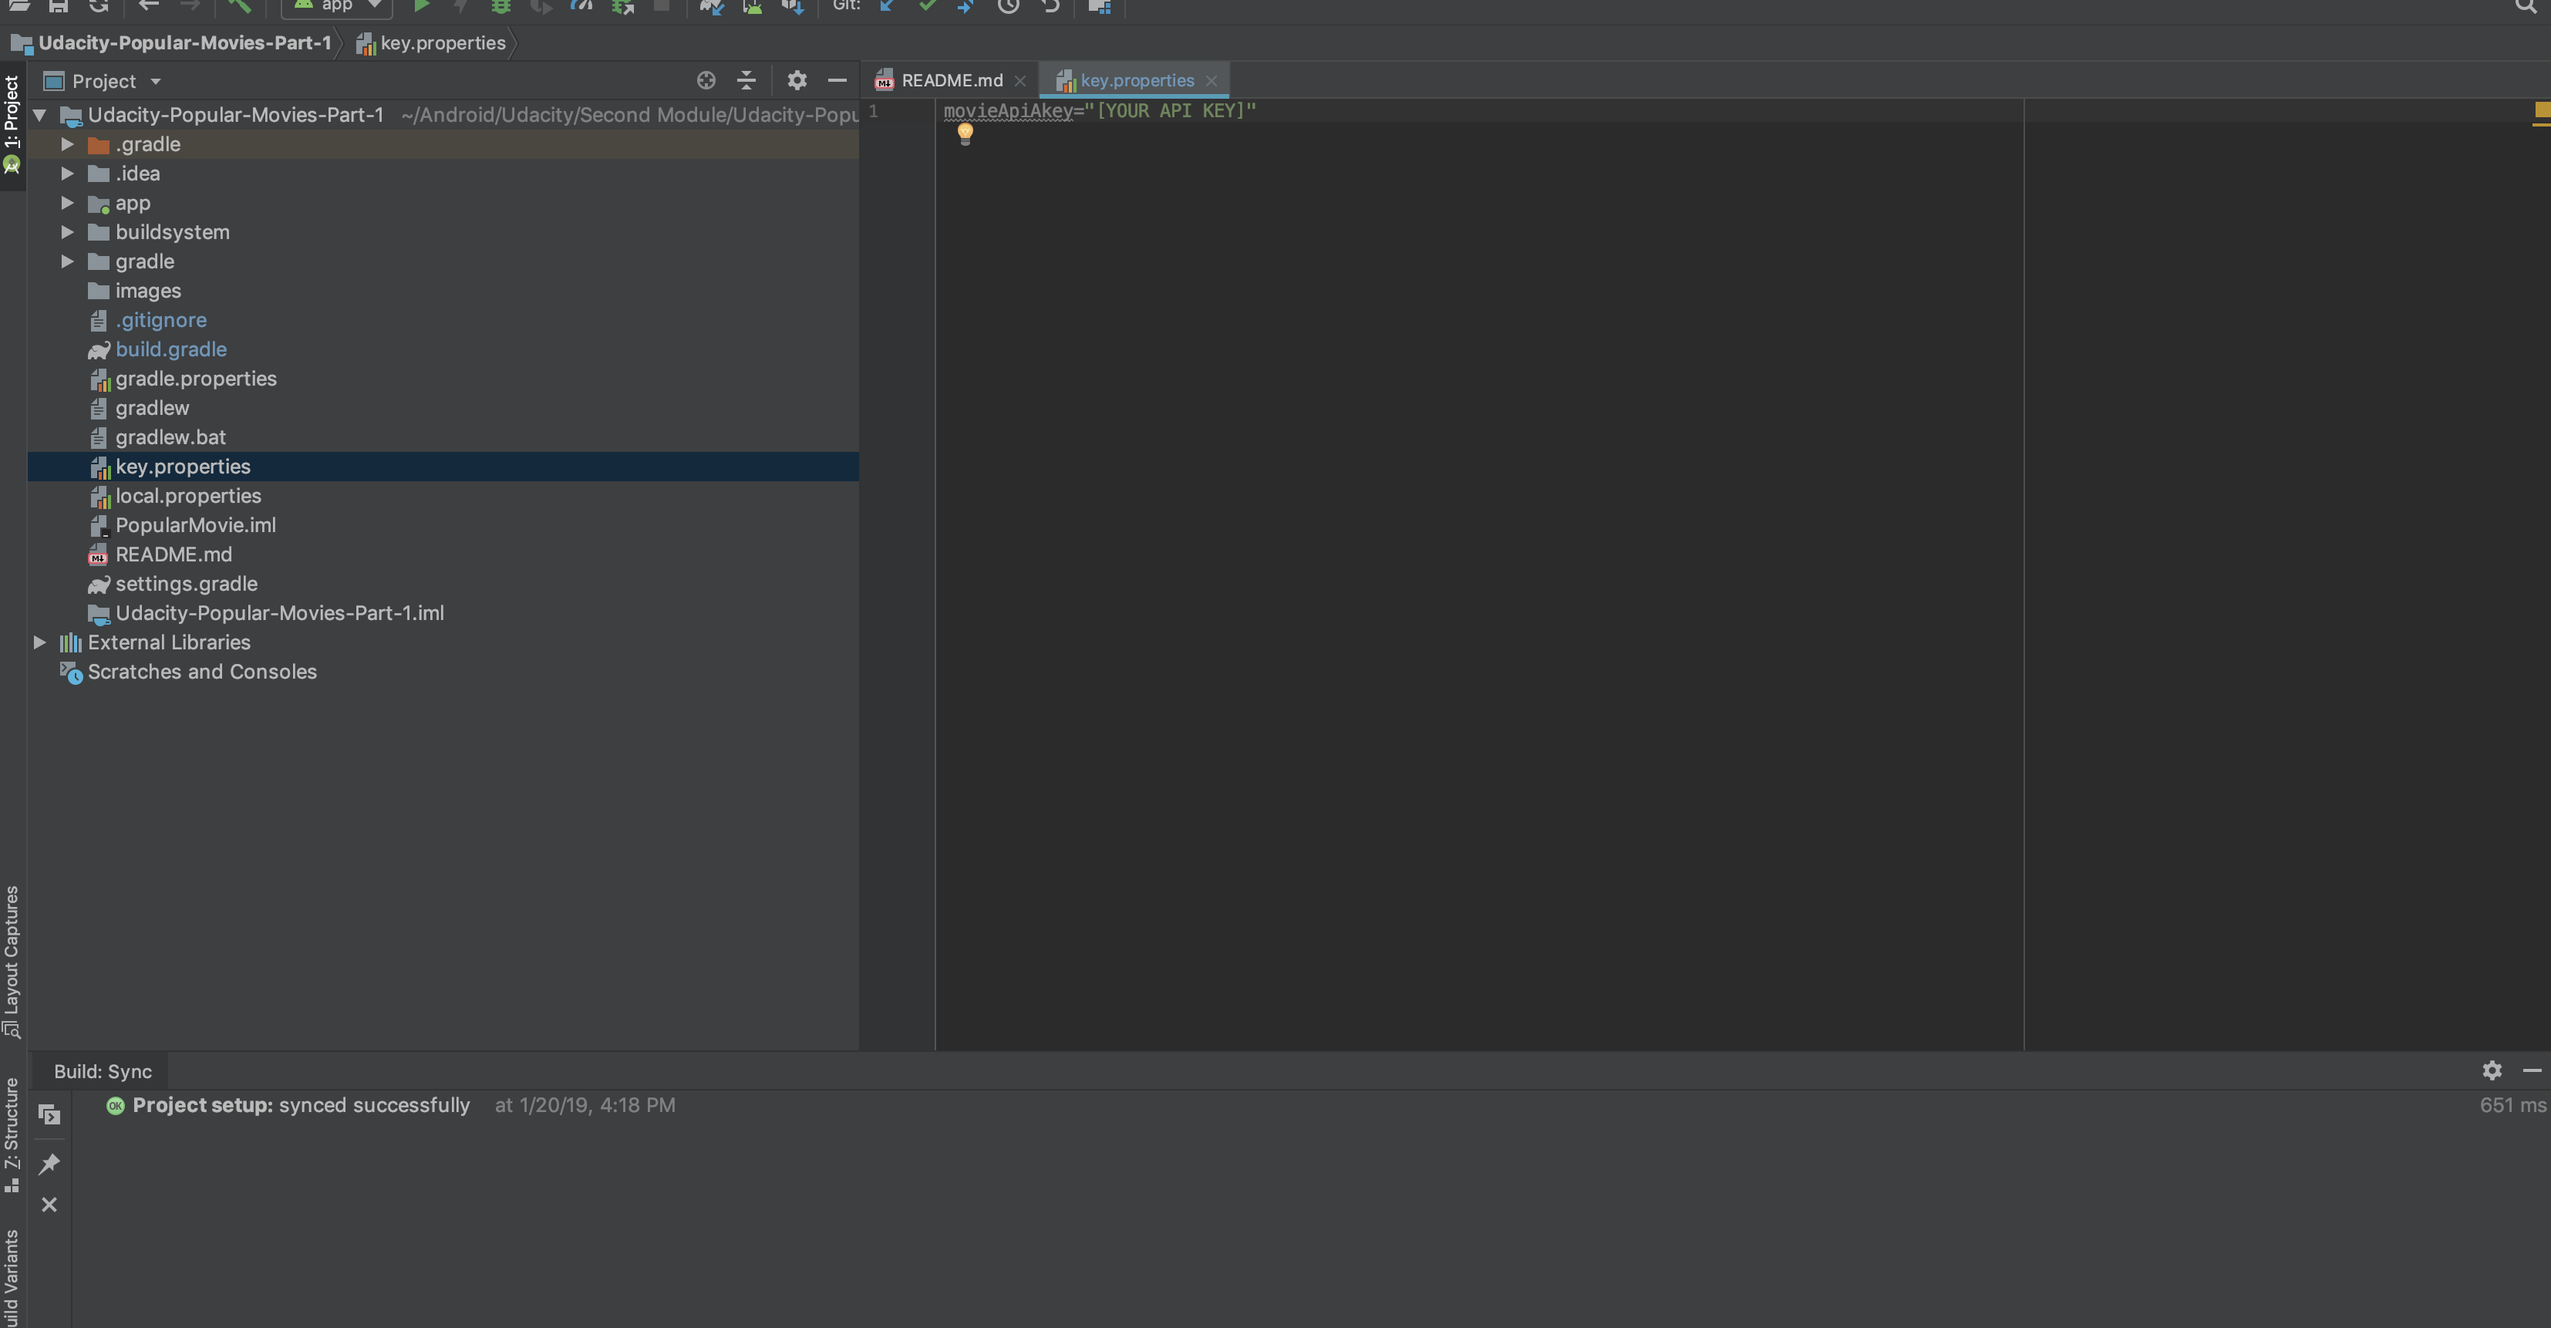
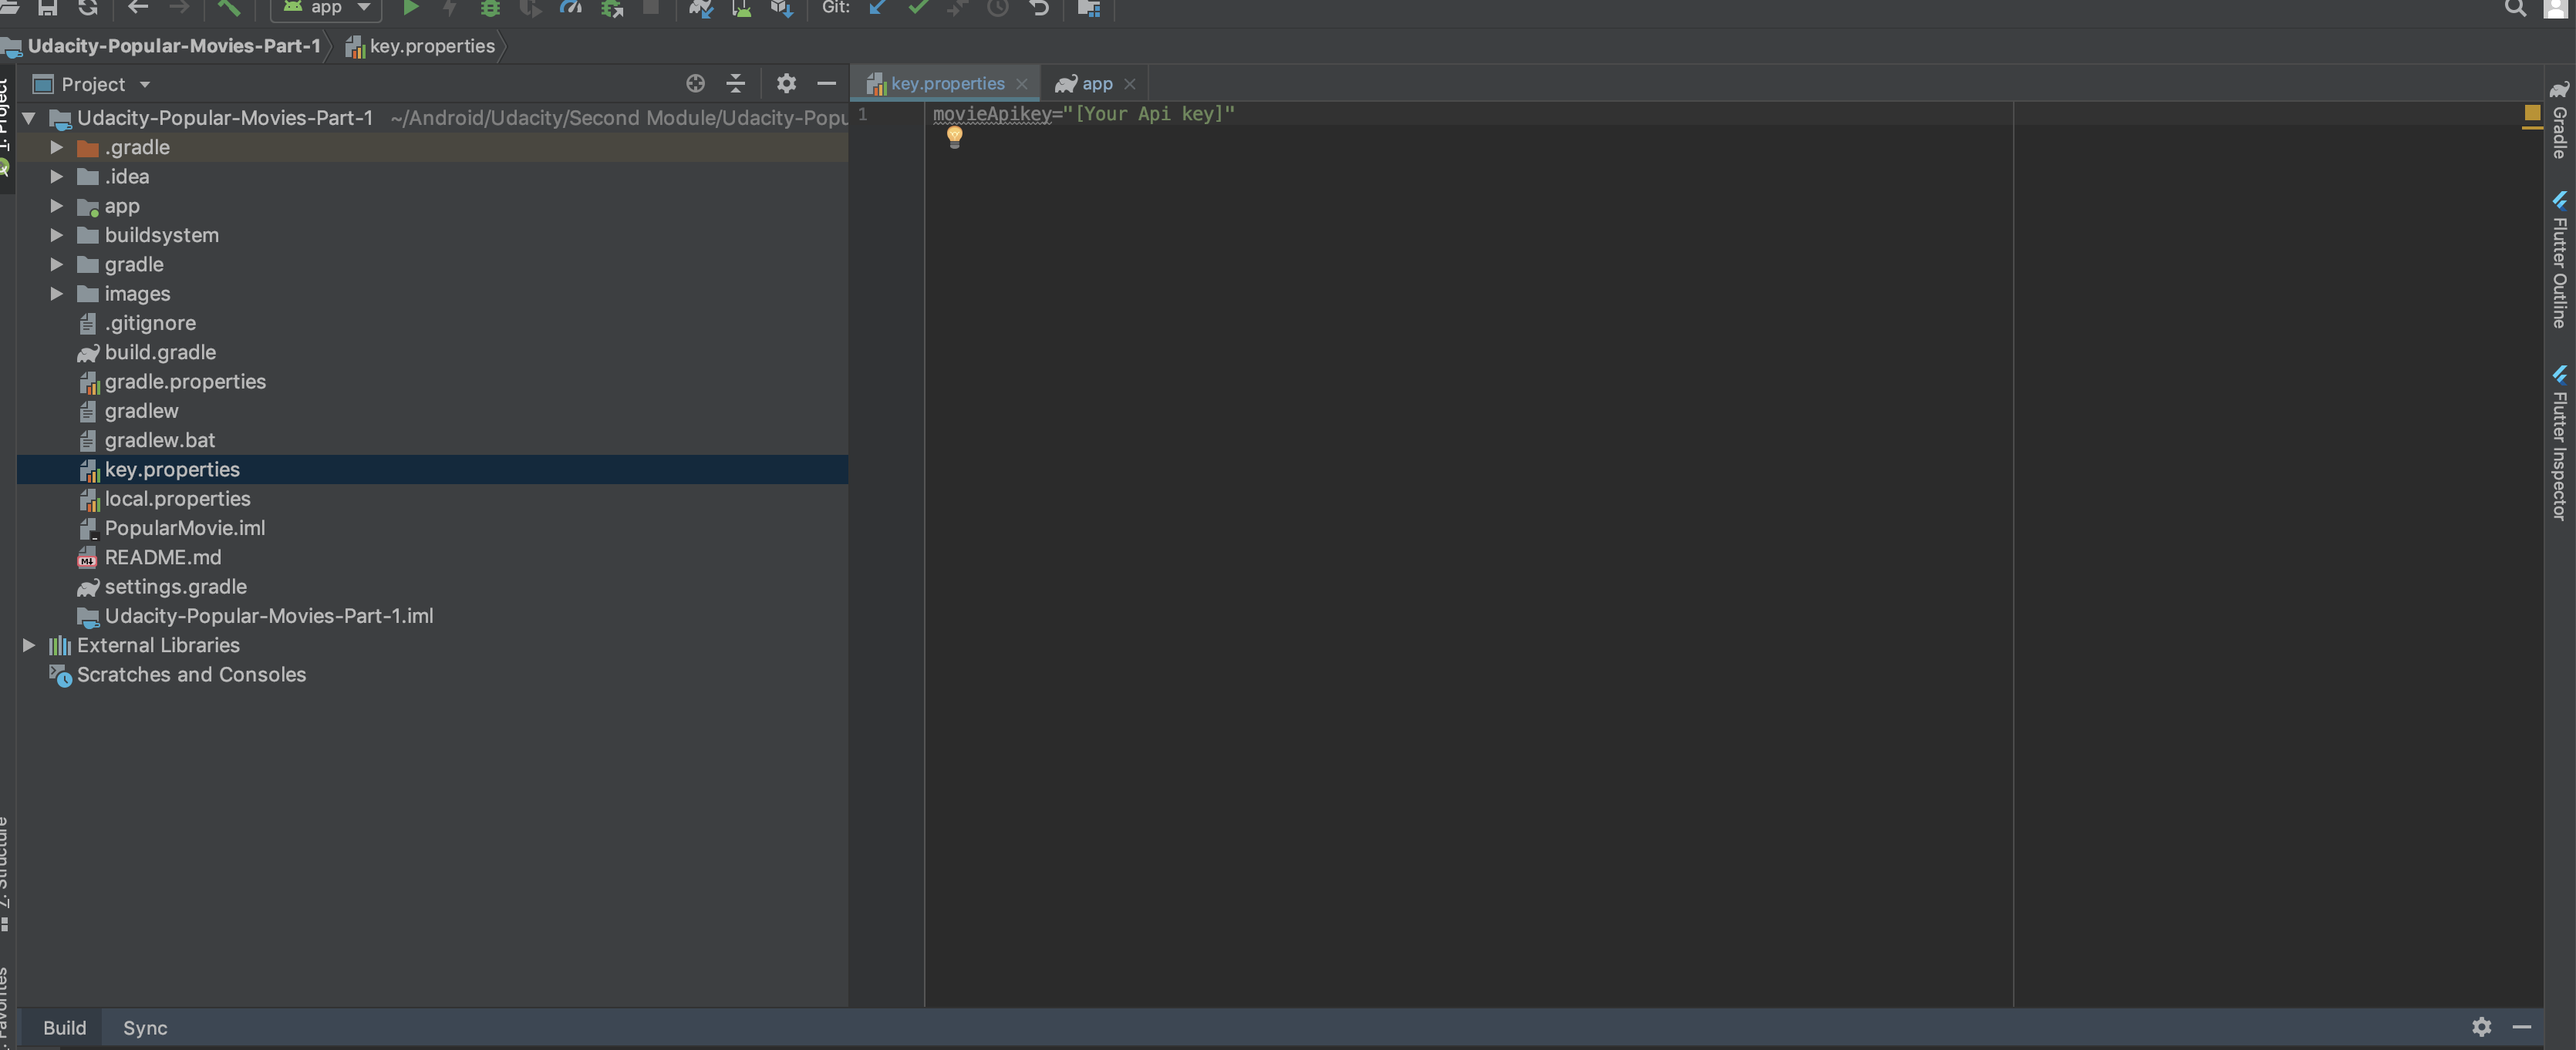
Docs :  Update readme

diff --git a/README.md b/README.md
@@ -5,7 +5,7 @@ Welcome to Udacity Popular Movies App part 1!
 ## How it works
 
 Popular movies app depends on [key.properties] file (This file should be create in the root of the project with the name "key.properties").
-In this file you should be add your movieDb Api Key value.
+In this file you should be add the key "movieApikey" with the value of your MovieDb Api key.
 
 ![Login](images/api_key.png)
 
